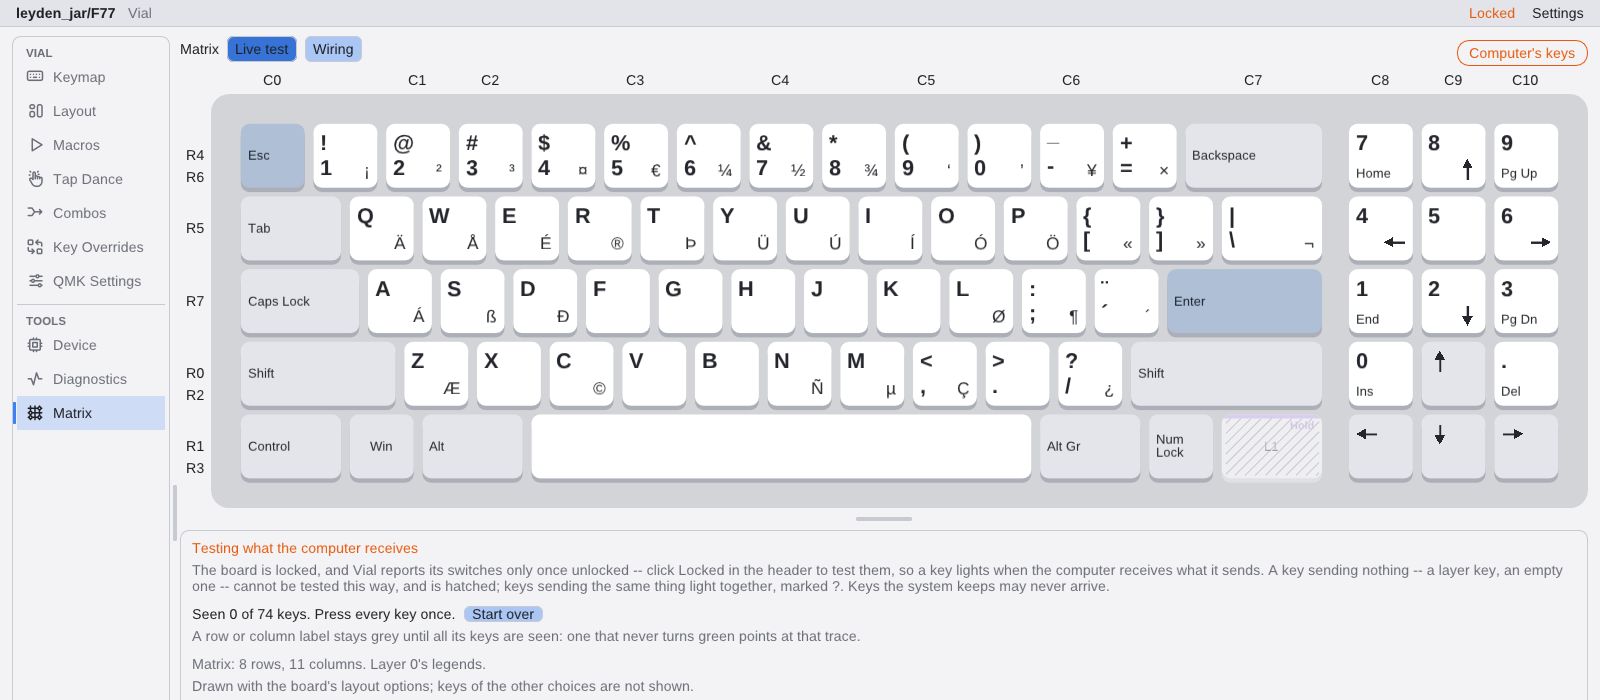
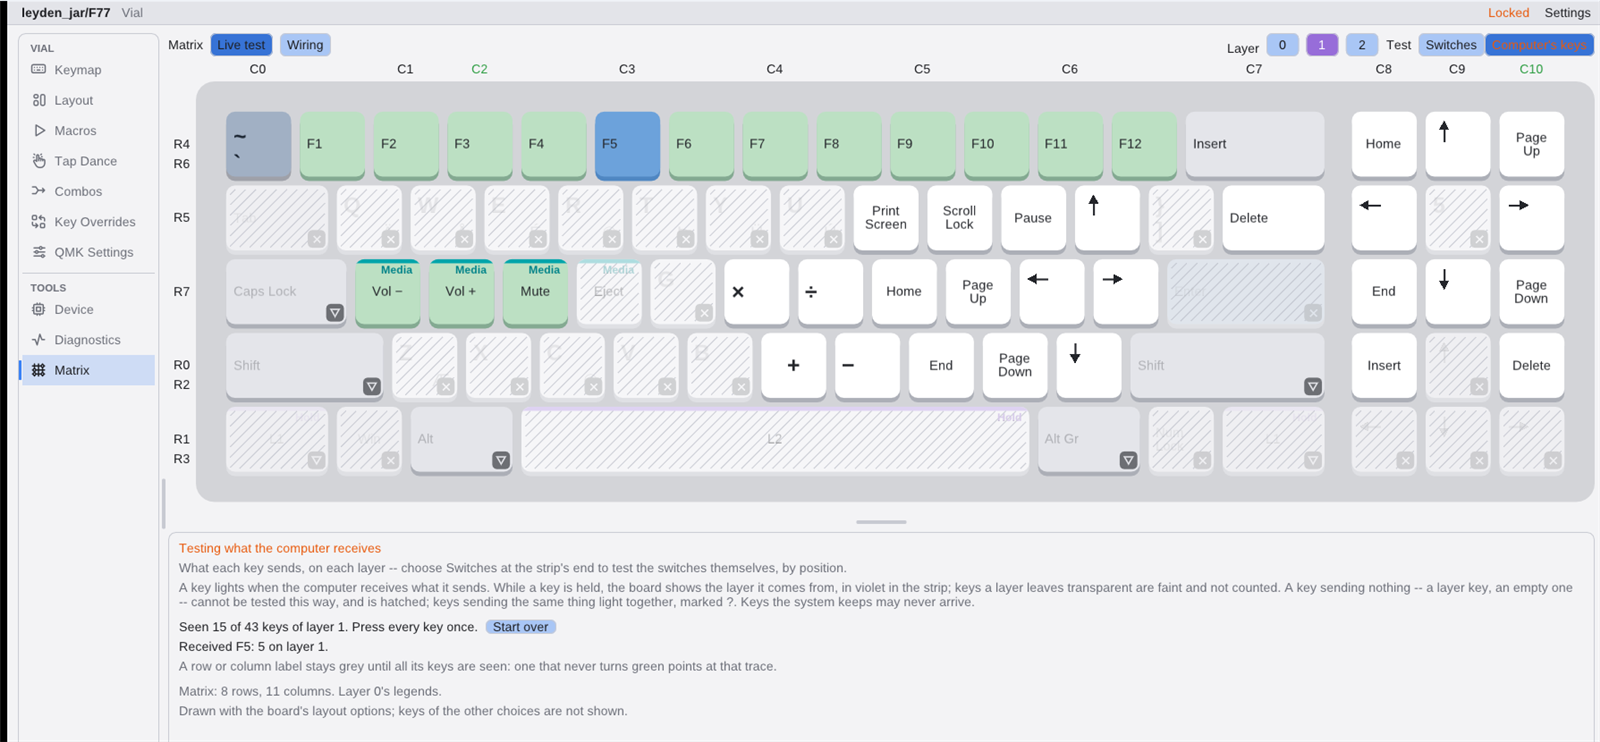
User manual: the key test picture retaken, layer 1 followed while a key is held

diff --git a/docs/user-manual.md b/docs/user-manual.md
@@ -621,7 +621,7 @@ the other and back.
   and cannot be tested this way. Keys sending the same thing light together, marked **?**. While
   this test runs, Nazg takes the whole keyboard, so Win and Alt+Tab are tested rather than acted on.
 
-    ![Testing the computer's keys: the layer key hatched](user-manual/matrix-computer-keys.png)
+    ![Testing the computer's keys: layer 1 followed while F5 is held, its tab violet](user-manual/matrix-computer-keys.png)
 
     **The layers are in the strip**, as in Keymap: the board draws the layer you choose, and the
     keys it leaves transparent are faint with ▽ and not counted. The computer cannot tell which
